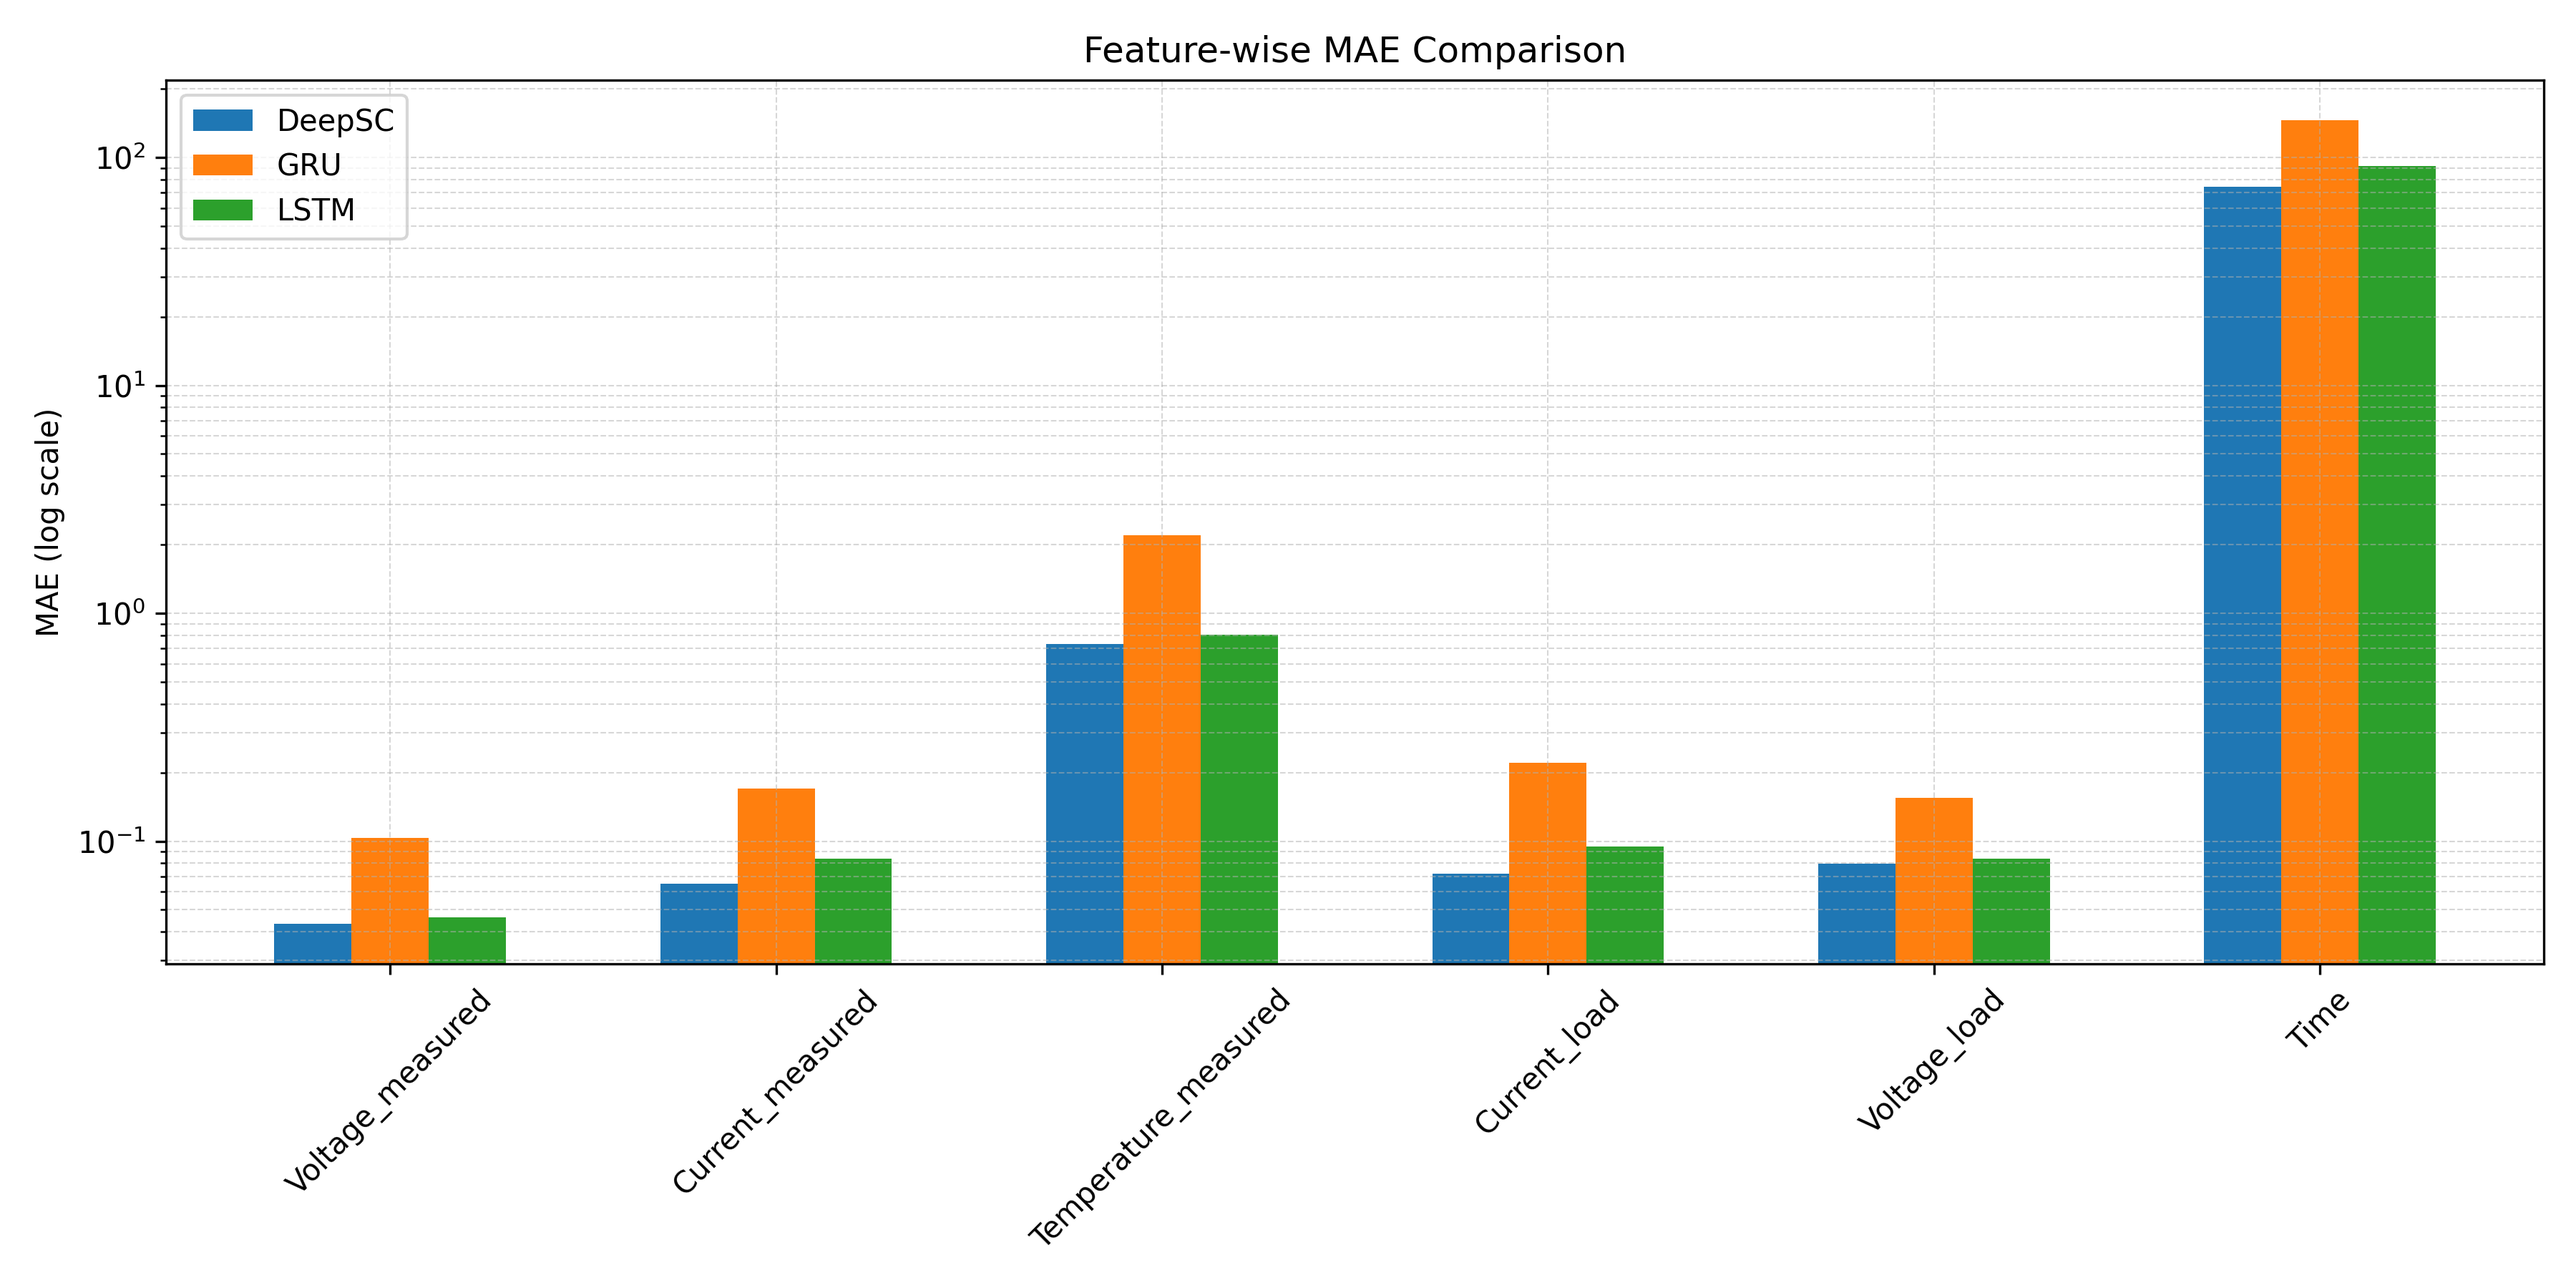
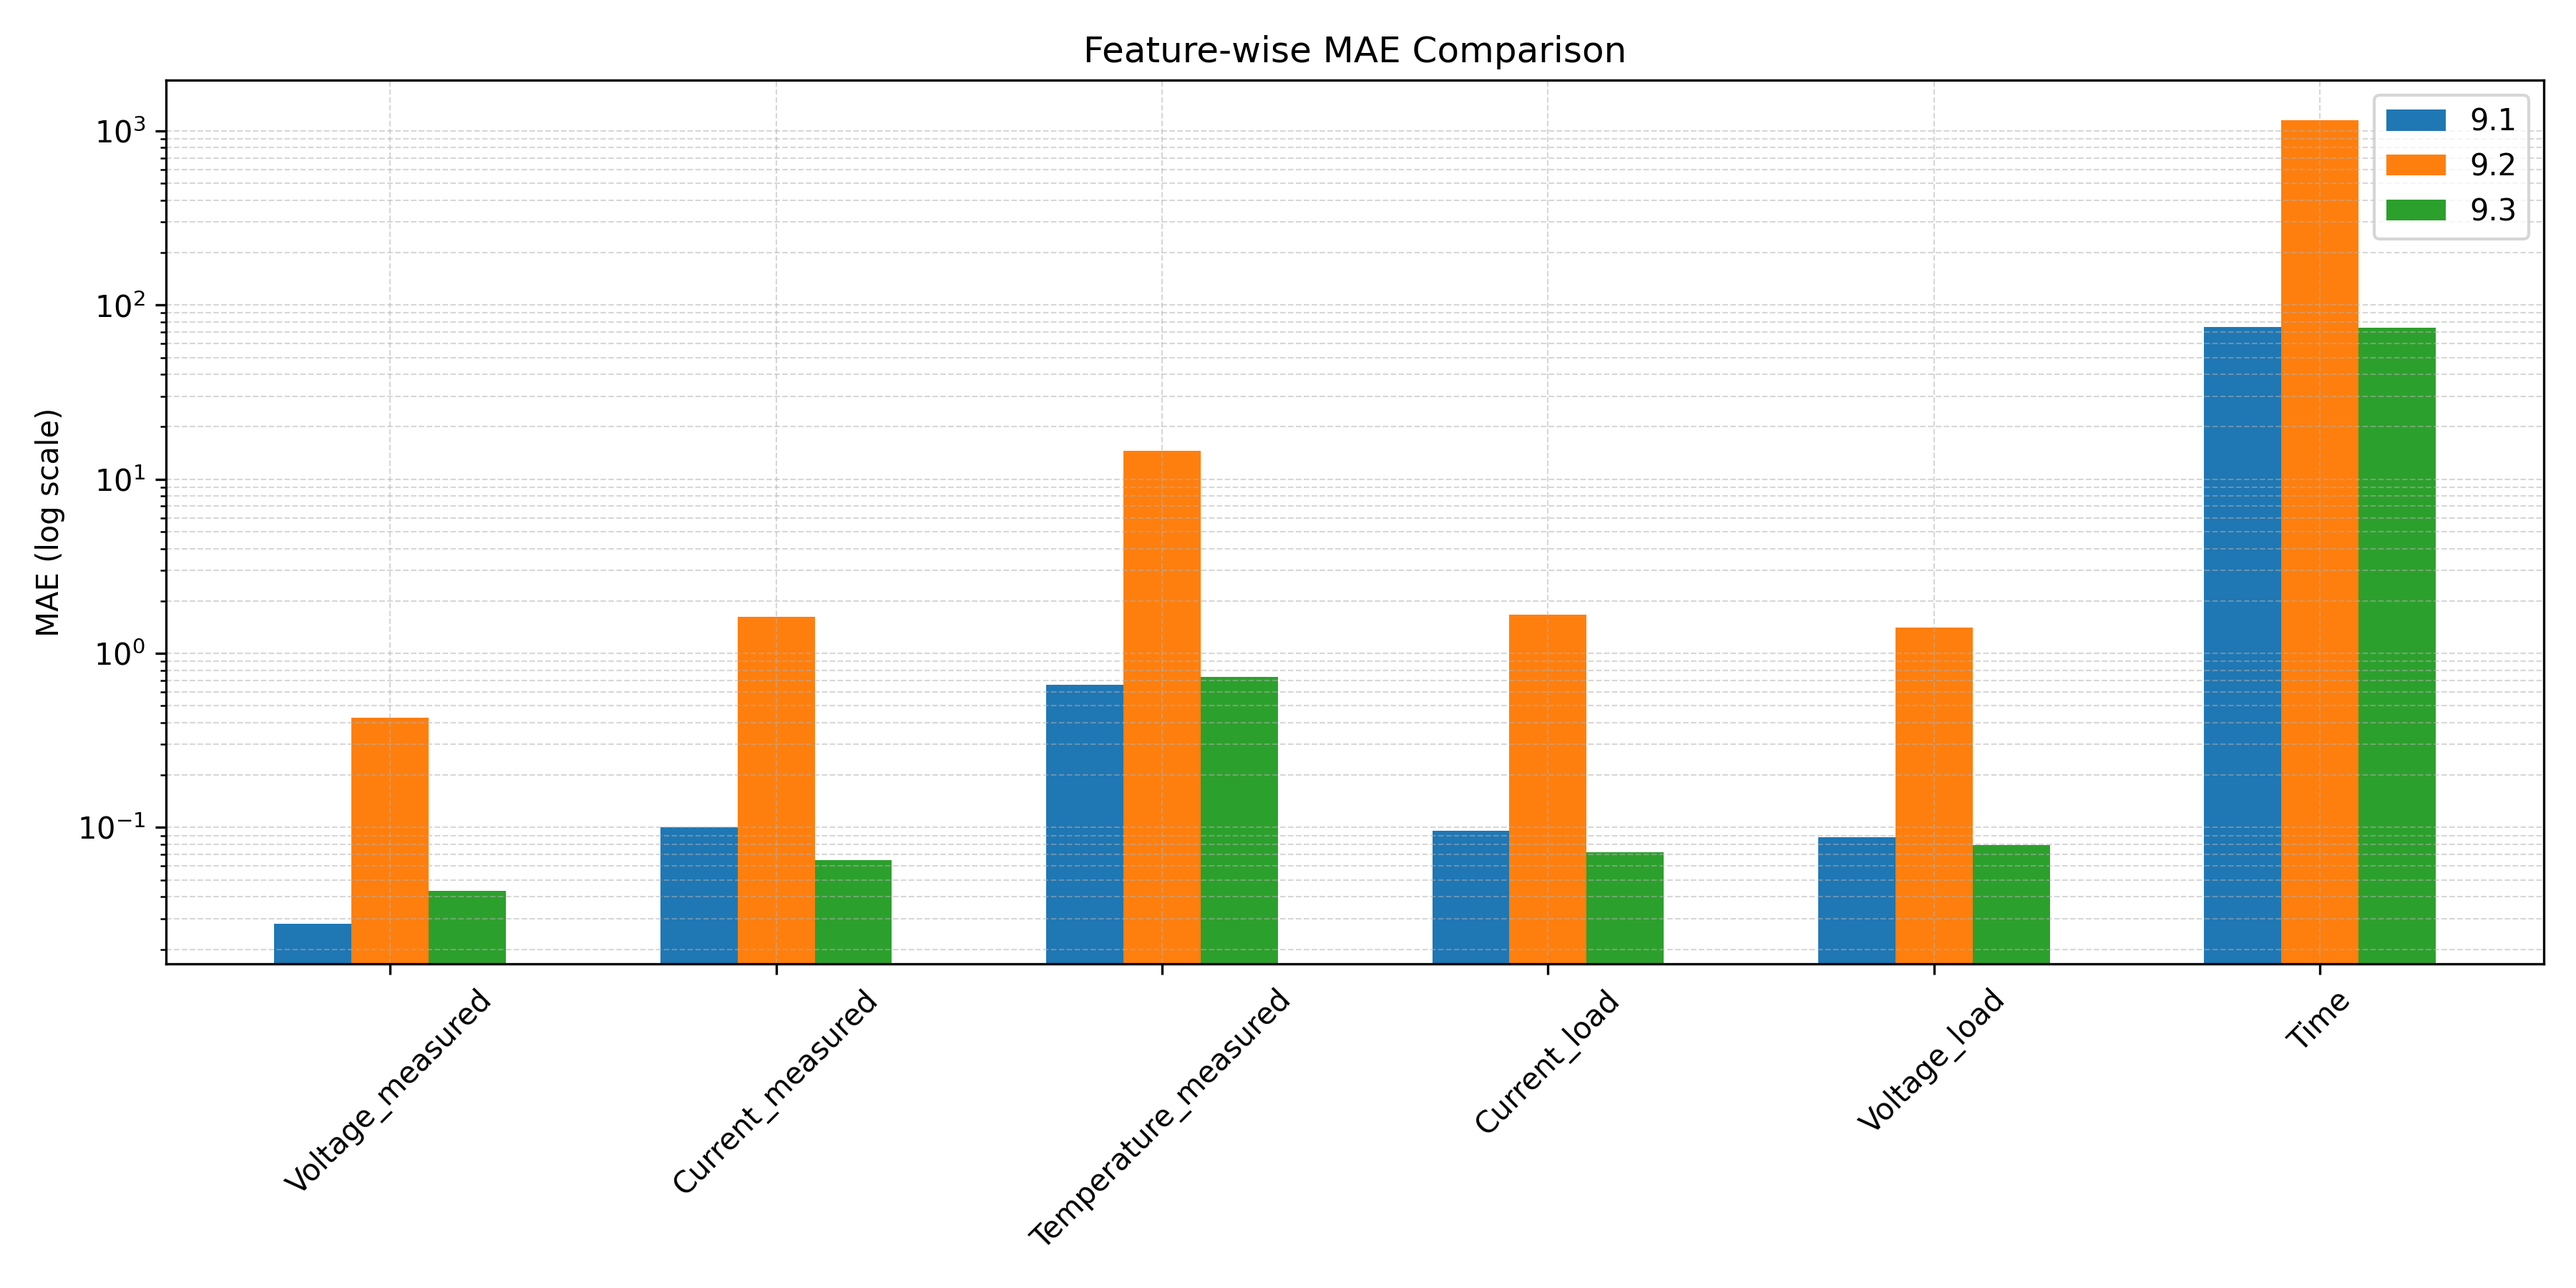
🎨 FEAT :  performance 단계에서 계산하는 지표를 MSE, MAE, MAPE에서 MSE, MAE, RMSE로 변경, 전처리 저장하는 경로에 사이클 길이까지 반영

diff --git a/final_comparison_plot.py b/final_comparison_plot.py
@@ -5,7 +5,7 @@ import pdb
 import numpy as np
 
 
-# 특정 케이스의 세 모델 복원 지표(MSE,MAE,MAPE)정보를 저장한 csv들을 받아서 plot하는 함수
+# 특정 케이스의 세 모델 복원 지표(MSE,MAE,RMSE)정보를 저장한 csv들을 받아서 plot하는 함수
 def final_statistic_comparison_plot(csv_paths, case_labels=None, save_path=None):
     # 1. 데이터 읽기
     dfs = [pd.read_csv(path) for path in csv_paths]
@@ -14,7 +14,7 @@ def final_statistic_comparison_plot(csv_paths, case_labels=None, save_path=None)
         case_labels = [f"Case {i+1}" for i in range(len(dfs))]
 
     # 2. 지표 종류 정의
-    metrics = ["MSE", "MAE", "MAPE"]
+    metrics = ["MSE", "MAE", "RMSE"]
 
     # 3. Feature 순서 정의 (첫 번째 df 기준)
     features = dfs[0]["Feature"].unique()
@@ -102,22 +102,31 @@ def plot_feature_comparison(
 if __name__ == "__main__":
     # 예시 사용법
     prefix = "./results/performance_test"
+    # csv_paths = [
+    #     prefix + "/case9.1/no_channel_deepsc_MSE/performance_statistics.csv",
+    #     prefix + "/case9.2/no_channel_lstm_MSE/performance_statistics.csv",
+    #     prefix + "/case9.3/no_channel_gru_MSE/performance_statistics.csv",
+    # ]
     csv_paths = [
+        prefix + "/case7.1/no_channel_deepsc_MSE/performance_statistics.csv",
+        prefix + "/case8.1/no_channel_deepsc_MSE/performance_statistics.csv",
         prefix + "/case9.1/no_channel_deepsc_MSE/performance_statistics.csv",
-        prefix + "/case9.2/no_channel_lstm_MSE/performance_statistics.csv",
-        prefix + "/case9.3/no_channel_gru_MSE/performance_statistics.csv",
     ]
 
-    case_labels = ["DeepSC", "GRU", "LSTM"]
+    # case_labels = ["DeepSC", "GRU", "LSTM"]
+    case_labels = ["9.1", "9.2", "9.3"]
     final_statistic_comparison_plot(
         csv_paths, case_labels, save_path="./comparison_plots"
     )
 
     plot_feature_comparison(
         original_path="./cycle_preprocess/csv/outlier_cut/threshold_7",
-        deepsc_path="./reconstruction/case9.1/reconstructed_no_channel_deepsc_MSE",
-        lstm_path="./reconstruction/case9.2/reconstructed_no_channel_lstm_MSE",
-        gru_path="./reconstruction/case9.3/reconstructed_no_channel_gru_MSE",
+        # deepsc_path="./reconstruction/case9.1/reconstructed_no_channel_deepsc_MSE",
+        # lstm_path="./reconstruction/case9.2/reconstructed_no_channel_lstm_MSE",
+        # gru_path="./reconstruction/case9.3/reconstructed_no_channel_gru_MSE",
+        deepsc_path="./reconstruction/case7.1/reconstructed_no_channel_deepsc_MSE",
+        lstm_path="./reconstruction/case8.1/reconstructed_no_channel_deepsc_MSE",
+        gru_path="./reconstruction/case9.1/reconstructed_no_channel_deepsc_MSE",
         feature_names=[
             "Voltage_measured",
             "Current_measured",
@@ -127,5 +136,5 @@ if __name__ == "__main__":
             "Time",
         ],
         save_path="./results/final_comparision",
-        filename="06995.csv",
+        filename="01205.csv",
     )

diff --git a/performance_cycle.py b/performance_cycle.py
@@ -15,7 +15,7 @@
    - 성능 지표 계산 (calculate_performance_metrics)
      * MSE (Mean Squared Error)
      * MAE (Mean Absolute Error)
-     * MAPE (Mean Absolute Percentage Error)
+     * RMSE (Mean Absolute Percentage Error)
    - 성능 리포트 저장 (save_performance_report)
 
 주요 기능:
@@ -270,7 +270,7 @@ def visualize_cycle_performance(
 
 def calculate_performance_metrics(original_df, reconstructed_df, feature_cols):
     """
-    원래 스케일로 복원 성능 지표 계산 (MSE, MAE, MAPE)
+    원래 스케일로 복원 성능 지표 계산 (MSE, MAE, RMSE)
 
     Args:
         original_df (pd.DataFrame): 원본 사이클 데이터
@@ -289,9 +289,9 @@ def calculate_performance_metrics(original_df, reconstructed_df, feature_cols):
 
         mse = np.mean((true - pred) ** 2)
         mae = np.mean(np.abs(true - pred))
-        mape = np.mean(np.abs((true - pred) / (np.abs(true) + epsilon))) * 100
+        RMSE = np.sqrt(np.mean((true - pred) ** 2))
 
-        metrics[col] = {"MSE": mse, "MAE": mae, "MAPE": mape}
+        metrics[col] = {"MSE": mse, "MAE": mae, "RMSE": RMSE}
 
     return metrics
 
@@ -354,7 +354,7 @@ def post_process(tensor_data, scaler, preprocessed_folder, target_length):
 def total_performance_plot(feature_cols, all_metrics, save_dir):
     # 전체 성능 시각화
     plt.figure(figsize=(20, 15))
-    metrics_names = ["MSE", "MAE", "MAPE"]
+    metrics_names = ["MSE", "MAE", "RMSE"]
 
     for i, metric_name in enumerate(metrics_names):
         plt.subplot(3, 1, i + 1)
@@ -458,20 +458,9 @@ def performance_cycle(params: TestParams, model=None, device=None):
 
     print(f"사이클 복원 완료, 총 {len(post_processed_cycles)}개의 사이클")
 
-    # # 복원된 사이클 csv로 저장
-    # for cycle_idx, cycle_df in post_processed_cycles.items():
-    #     # 사이클 데이터프레임을 CSV로 저장
-    #     cycle_df.to_csv(
-    #         os.path.join(
-    #             save_reconstruction_dir, f"{int(cycle_idx):05d}_reconstructed.csv"
-    #         ),
-    #         index=False,
-    #     )
-    #     print(f"사이클 {cycle_idx} 복원 완료 및 저장")
-
     # 모든 사이클의 성능 지표를 저장할 딕셔너리
     all_metrics = {
-        feature: {"MSE": [], "MAE": [], "MAPE": []} for feature in feature_cols
+        feature: {"MSE": [], "MAE": [], "RMSE": []} for feature in feature_cols
     }
 
     reconstruct_count = 0
@@ -523,7 +512,7 @@ def performance_cycle(params: TestParams, model=None, device=None):
 
             # 각 feature의 metrics를 저장
             for feature in feature_cols:
-                for metric_name in ["MSE", "MAE", "MAPE"]:
+                for metric_name in ["MSE", "MAE", "RMSE"]:
                     all_metrics[feature][metric_name].append(
                         metrics[feature][metric_name]
                     )

diff --git a/parameters/parameters.py b/parameters/parameters.py
@@ -106,7 +106,7 @@ original_data_path = "original_dataset/data/"
 # 중간에 이상치 제거 버전 csv 저장할 경로 -> 나중에 이걸 최종 csv 복원 비교의 원본 csv으로 사용
 outlier_cut_csv_path = (
     # f"./cycle_preprocess/csv/outlier_cut/"
-    f"./cycle_preprocess/csv/outlier_cut/threshold_{outlier_threshold}/"
+    f"./cycle_preprocess/csv/outlier_cut/threshold_{outlier_threshold}/cycle_len_{target_length}"
 )
 
 # 중간에 resampled 된 버전 csv 저장할 경로 -> 확인용 -> 이제 preprocessed_csv와 동일해짐 -> 사용 x
